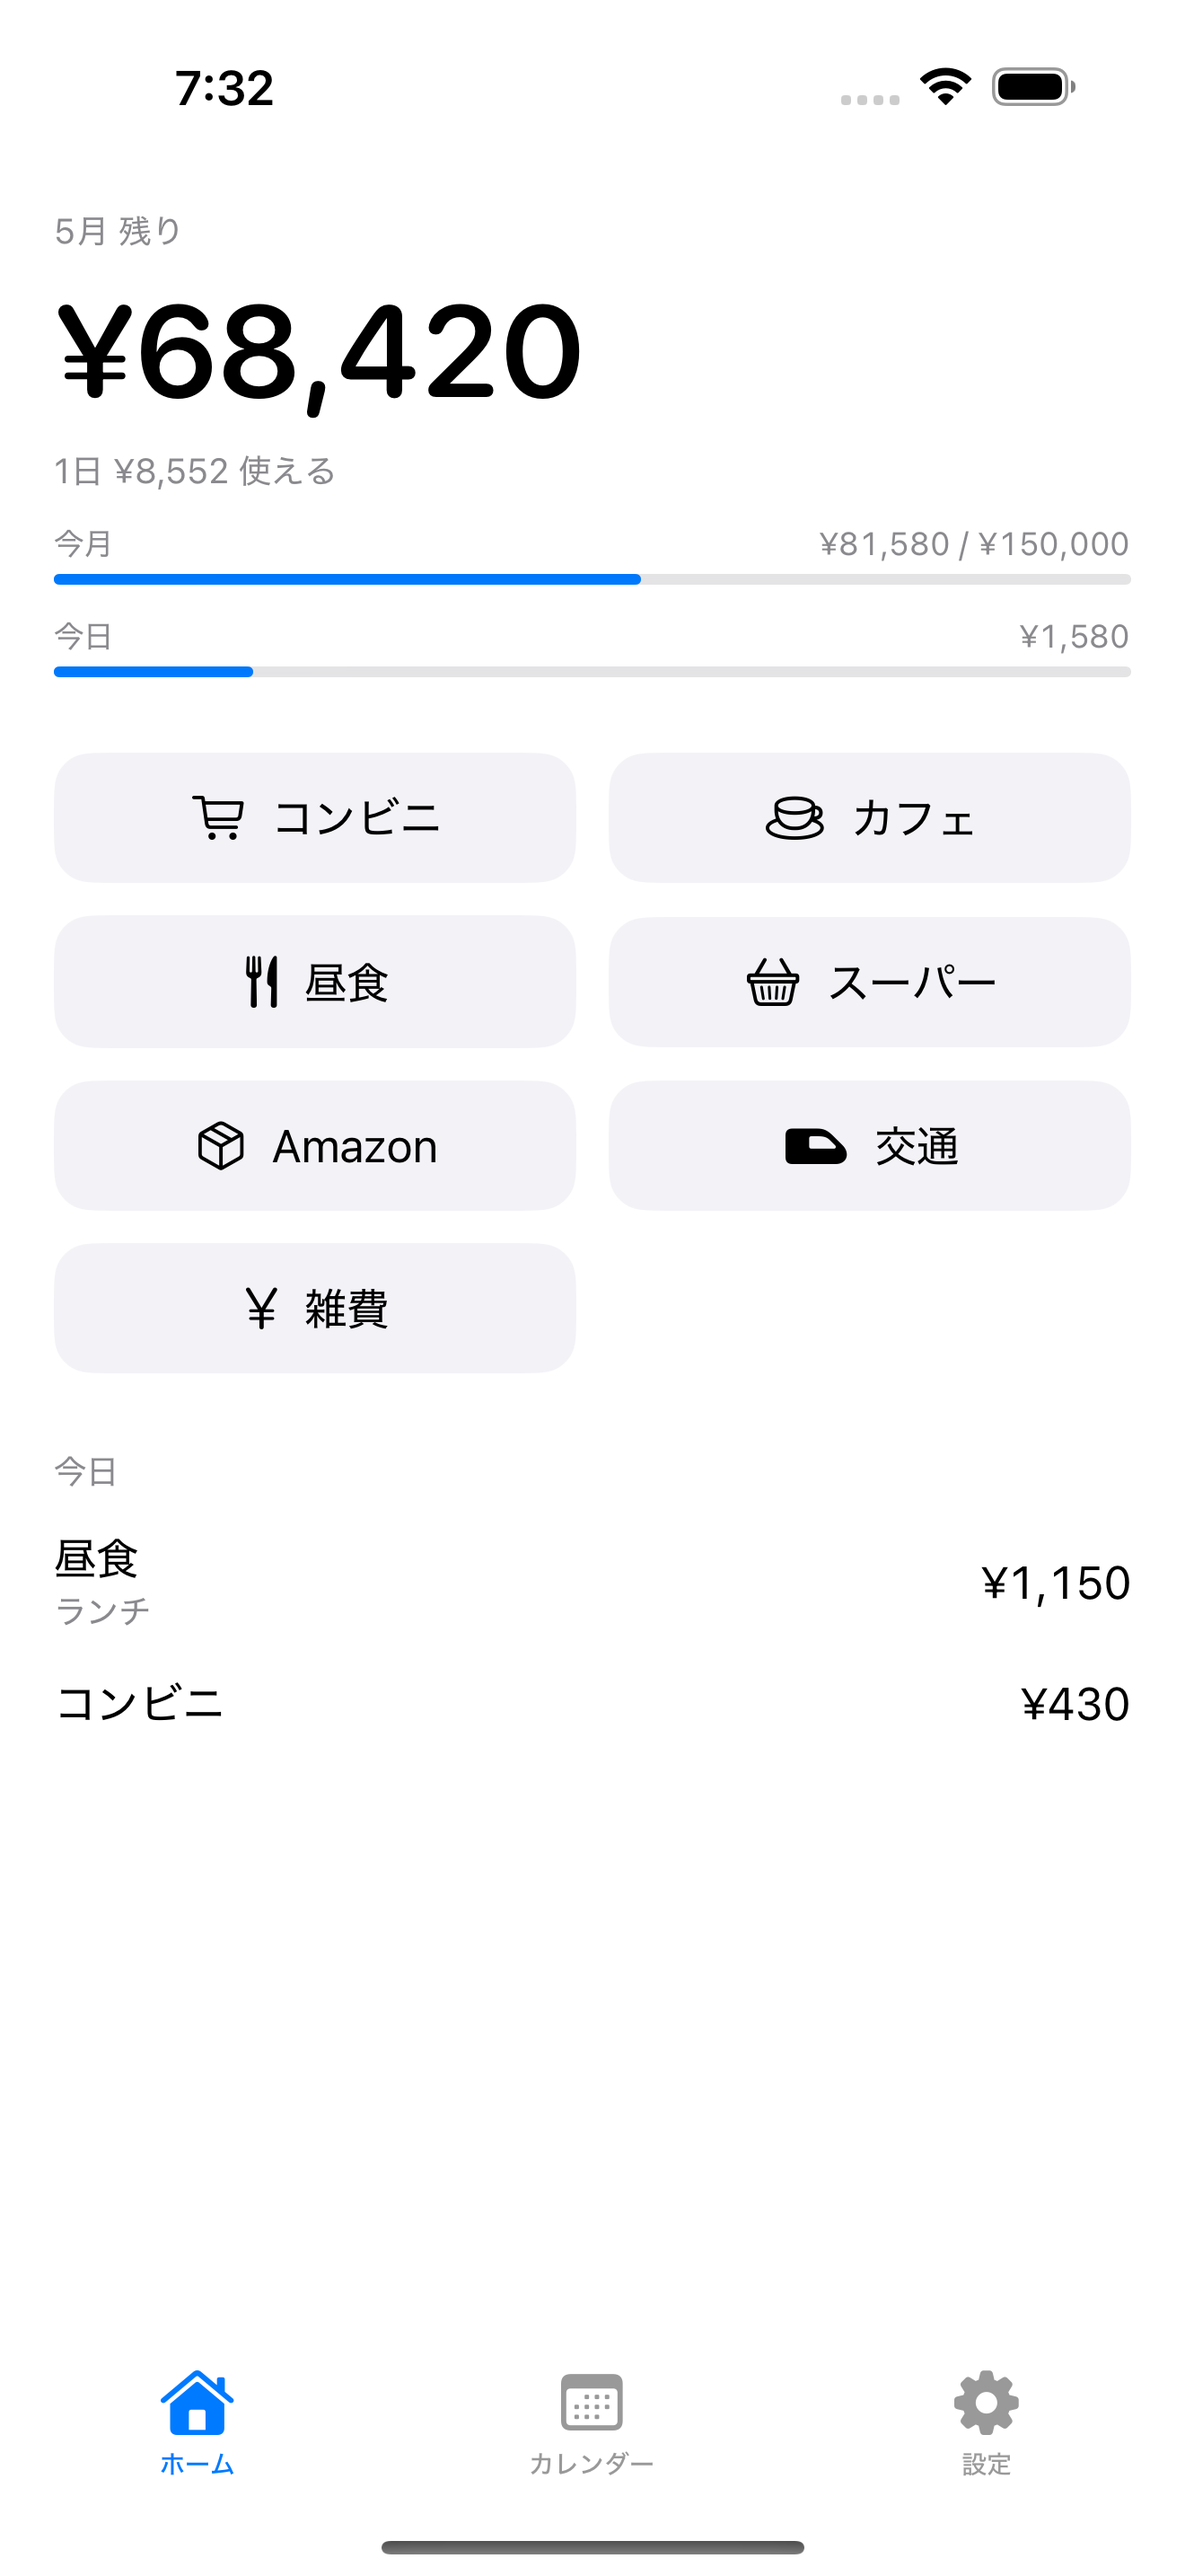
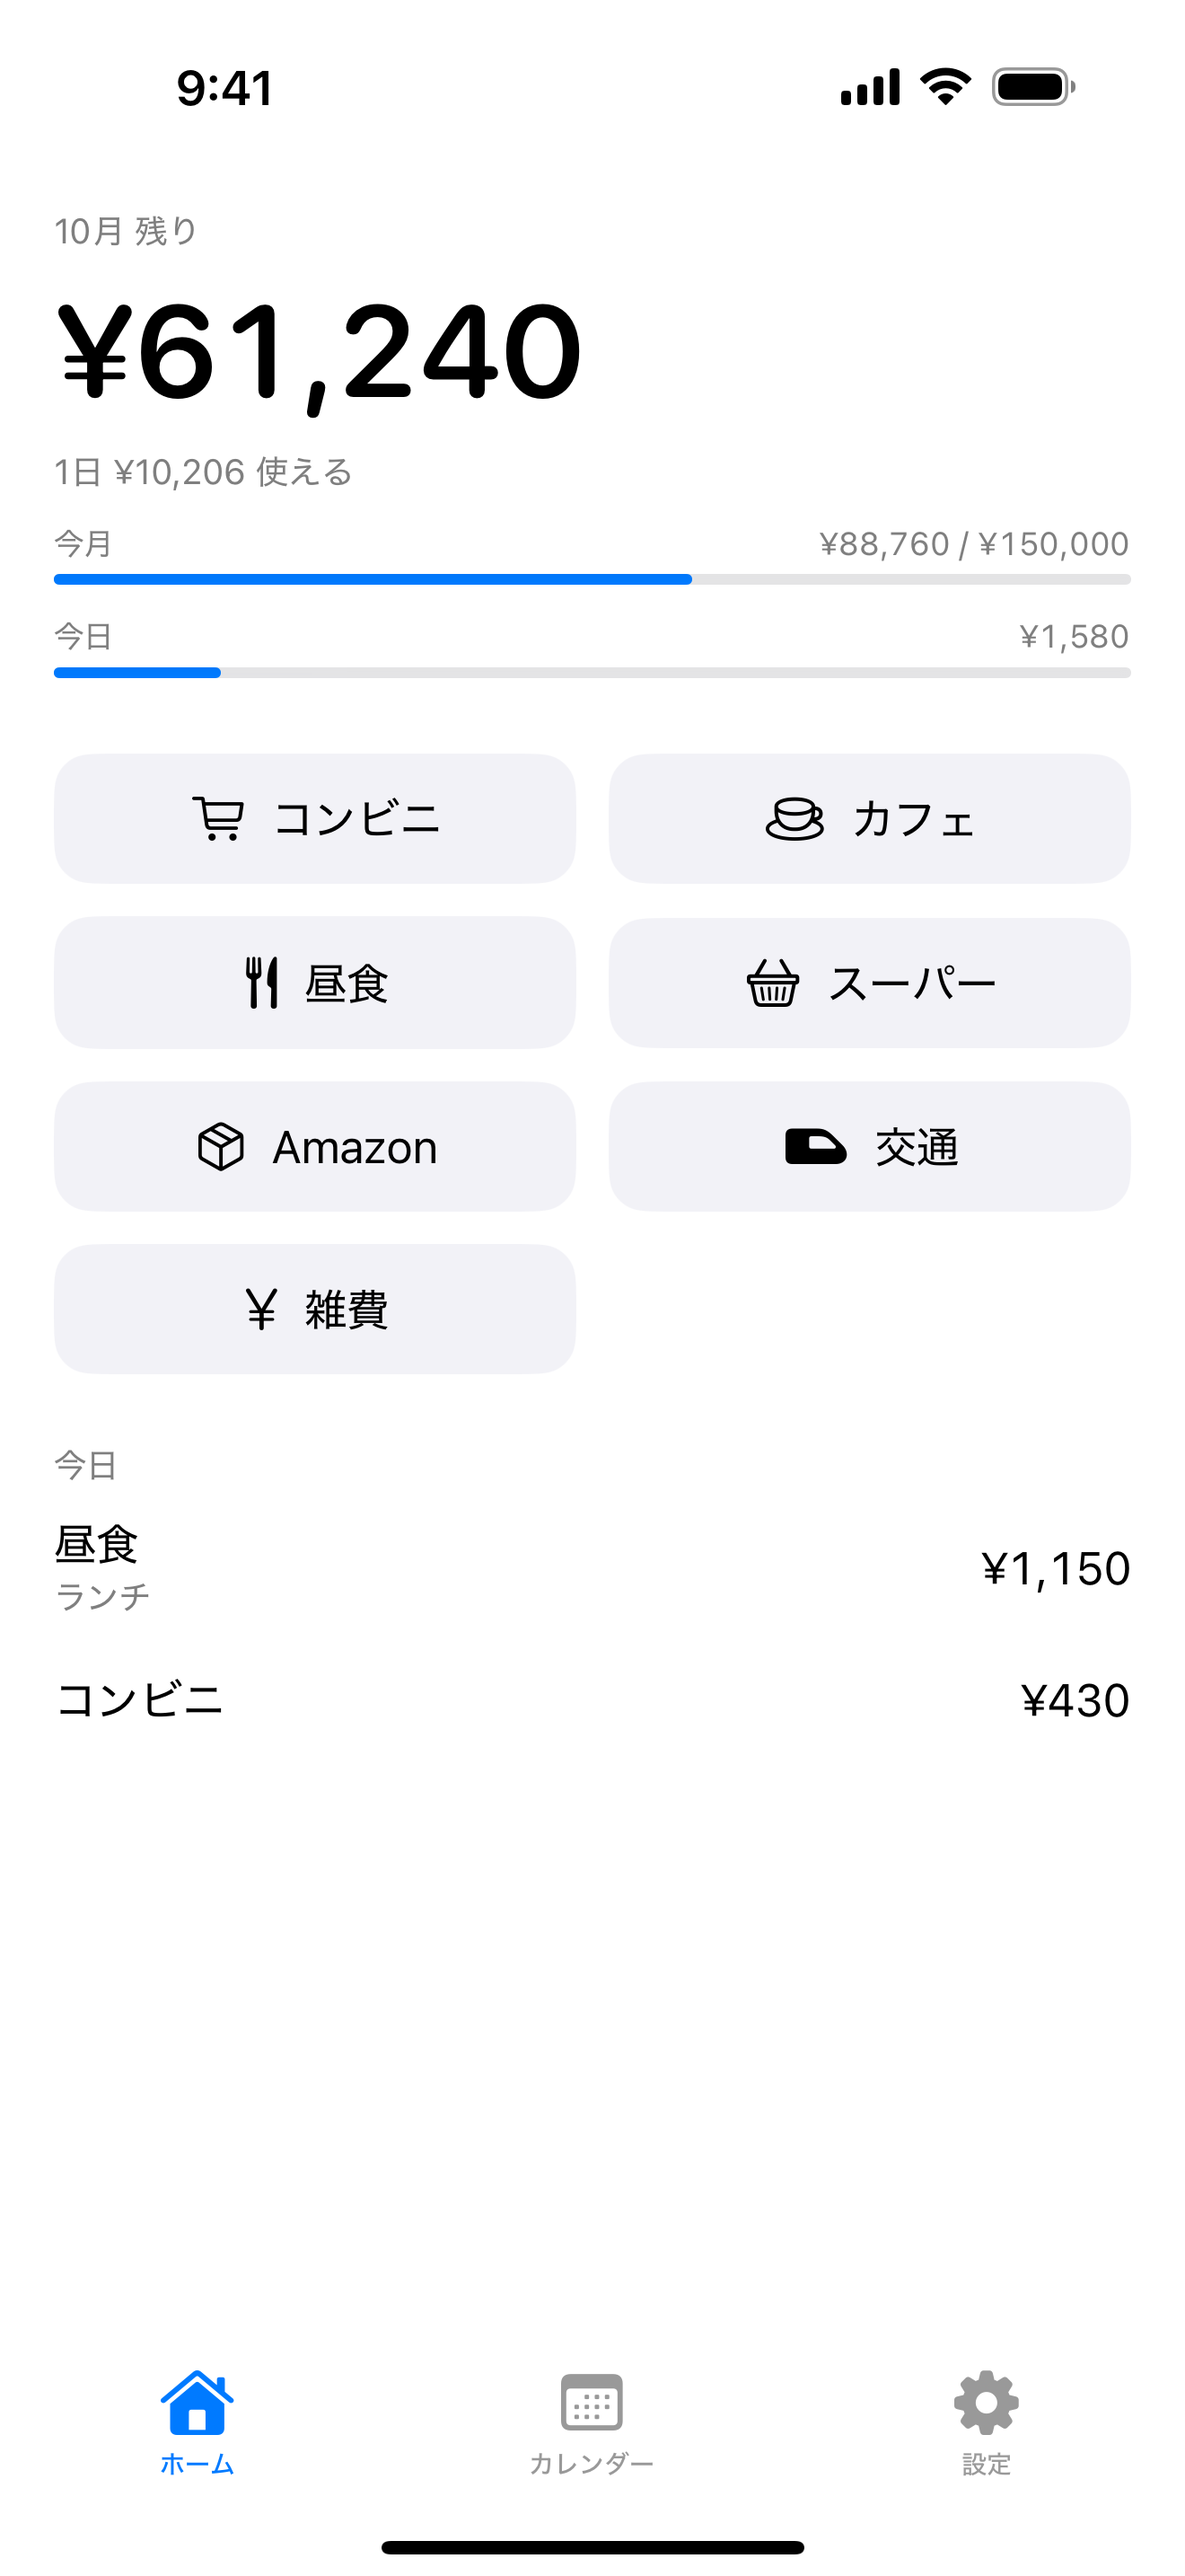
feat: nokori の紹介ページのスクリーンショットを v1.2.0 の 7 枚に差し替え
App Store 掲載画像と同じ素材 (nokori リポジトリの release/screenshots/raw/)
に差し替えた。日付の選択 (v1.2.0) と設定 (iCloud 同期・テーマ) を追加。
7 枚が 5 + 2 に割れないよう、ギャラリーの幅を 4 枚分に絞って 4 + 3 の
2 段にした。

diff --git a/nokori/index.html b/nokori/index.html
@@ -175,9 +175,10 @@
   .feat p { font-size: .94rem; color: var(--ink-soft); line-height: 1.8; }
 
   /* ---------- Showcase ---------- */
+  /* 7 枚を 4 + 3 の 2 段に並べる (横幅いっぱいだと 5 + 2 に割れるため、4 枚分の幅に絞る) */
   .shots {
     display: flex; flex-wrap: wrap; justify-content: center; align-items: flex-start;
-    gap: 34px 20px; max-width: var(--maxw); margin: 0 auto; padding: 50px 28px 16px;
+    gap: 34px 20px; max-width: calc(4 * 182px + 3 * 20px + 56px); margin: 0 auto; padding: 50px 28px 16px;
   }
   .shot { flex: 0 0 auto; width: clamp(150px, 16vw, 182px); text-align: center; }
   .shot .frame {
@@ -323,9 +324,11 @@
   <div class="shots">
     <div class="shot reveal"><div class="frame"><img src="assets/screenshots/01-home.png" alt="ホーム"></div><span>ホーム ｜ 残額と予算バー</span></div>
     <div class="shot reveal"><div class="frame"><img src="assets/screenshots/02-input.png" alt="入力"></div><span>入力 ｜ 専用テンキー</span></div>
-    <div class="shot reveal"><div class="frame"><img src="assets/screenshots/03-calendar.png" alt="カレンダー"></div><span>カレンダー ｜ 日別・超過表示</span></div>
-    <div class="shot reveal"><div class="frame"><img src="assets/screenshots/04-stats.png" alt="統計"></div><span>統計 ｜ 予算の残り</span></div>
-    <div class="shot reveal"><div class="frame"><img src="assets/screenshots/05-recurring.png" alt="定期支出"></div><span>設定 ｜ 毎月の定期支出</span></div>
+    <div class="shot reveal"><div class="frame"><img src="assets/screenshots/03-date.png" alt="日付の選択"></div><span>日付 ｜ 過去も先の予定も</span></div>
+    <div class="shot reveal"><div class="frame"><img src="assets/screenshots/04-calendar.png" alt="カレンダー"></div><span>カレンダー ｜ 日別・超過表示</span></div>
+    <div class="shot reveal"><div class="frame"><img src="assets/screenshots/05-stats.png" alt="統計"></div><span>統計 ｜ 予算の残り</span></div>
+    <div class="shot reveal"><div class="frame"><img src="assets/screenshots/06-recurring.png" alt="定期支出"></div><span>定期支出 ｜ 毎月自動で計上</span></div>
+    <div class="shot reveal"><div class="frame"><img src="assets/screenshots/07-settings.png" alt="設定"></div><span>設定 ｜ iCloud 同期・テーマ</span></div>
   </div>
 </section>
 
